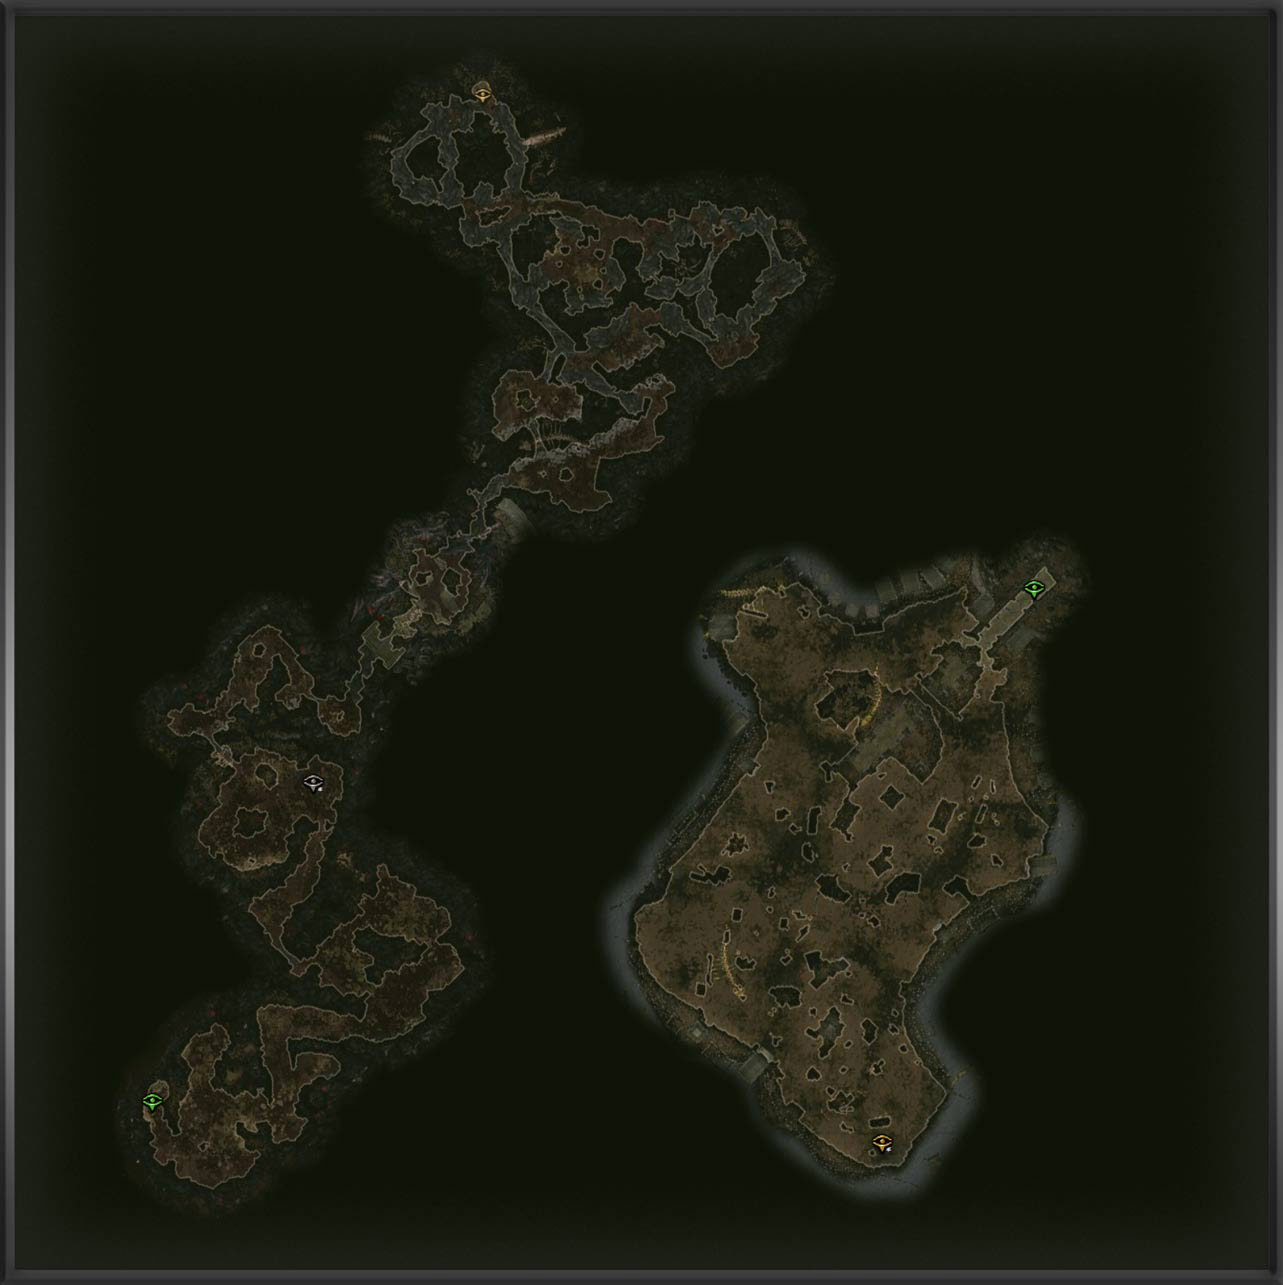
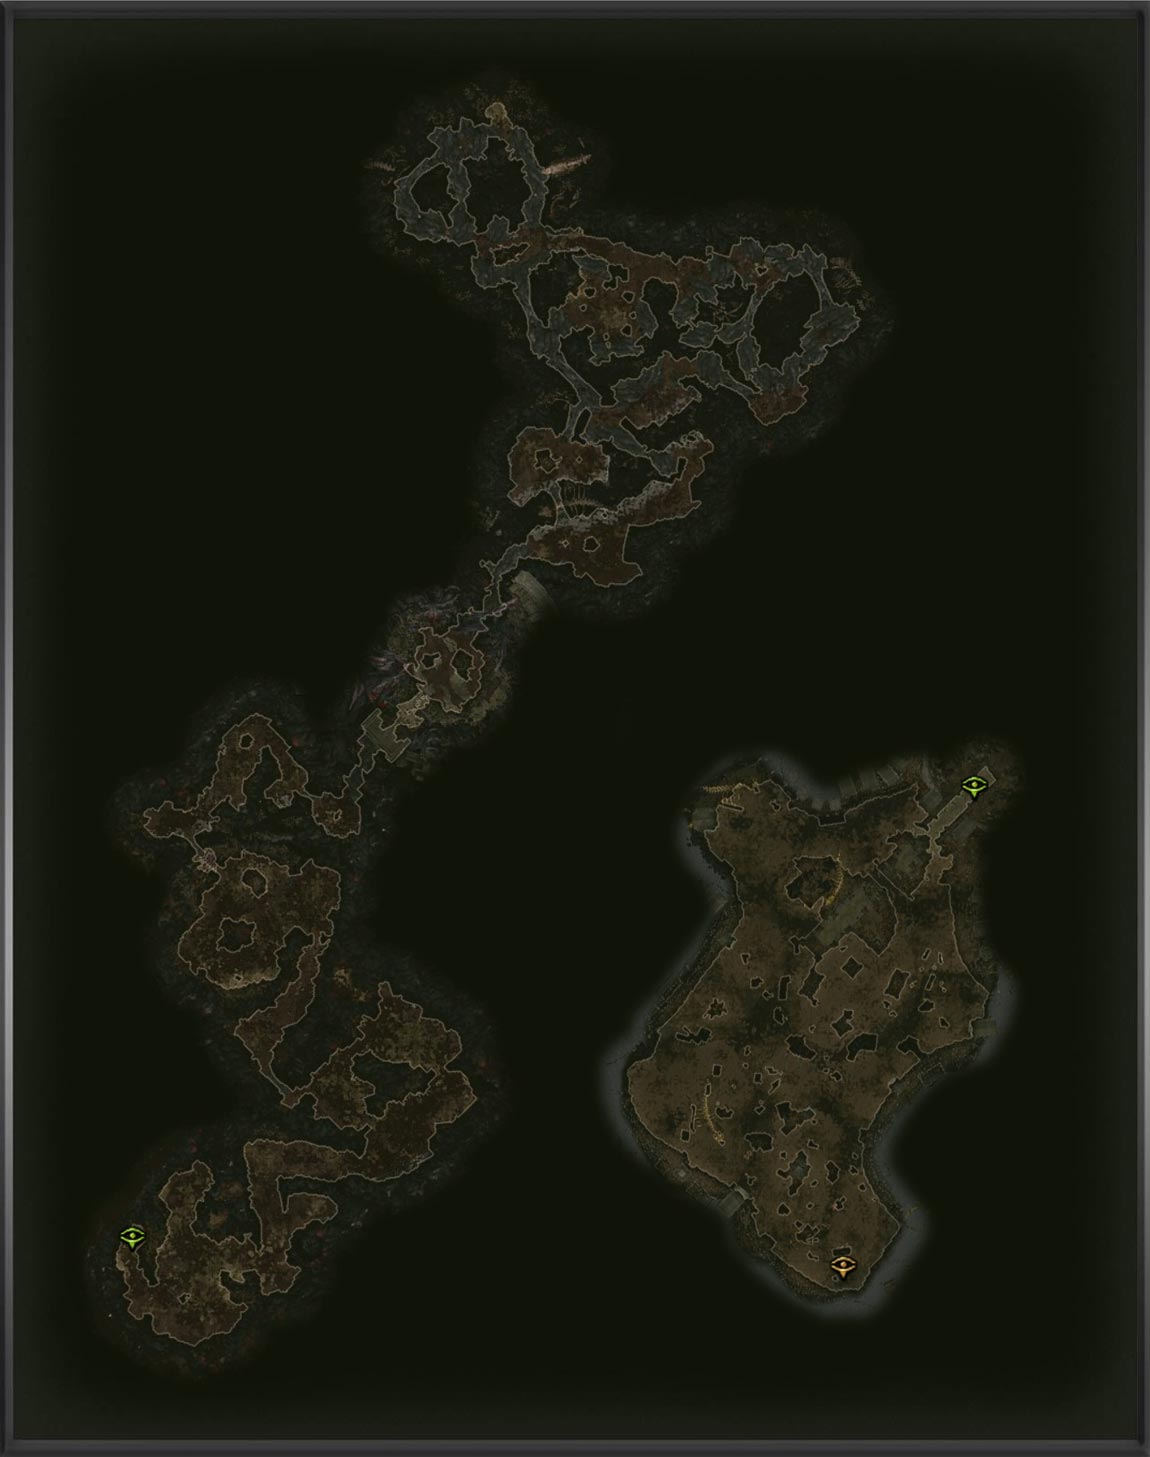
QOL

Changed region(s): [[0.0913, 0.0623, 0.7609, 0.9339], [0.4565, 0.4047, 0.8826, 0.9339]]

diff --git a/js/ui.region.js b/js/ui.region.js
@@ -58,7 +58,7 @@
 { id: 'map_hallowed_hill', tag: 'tagMapHallowedHill', xp: 69.94, yp: 63.94 },
 { id: 'map_east_marsh01', tag: 'tagMapEastMarsh01', xp: 74.61, yp: 66.54 },
 { id: 'map_east_marsh03', tag: 'tagMapEastMarsh03', xp: 78.79, yp: 65.76 },
-{ id: 'GDX1UG_ugdenbog_wendigo01', tag: 'tagGDX1UGUgdenbogWendigo01', xp: 78.57, yp: 29.30, isDungeon: true },
+{ id: 'GDX1UG_ugdenbog_wendigo01', tag: 'tagGDX1UGUgdenbogWendigo01', xp: 79.68, yp: 30.01, isDungeon: true },
 { id: 'GDX2_map_side_areas_01', tag: 'tagGDX2MapSideAreas_01', xp: 72.06, yp: 62.22 },
 { id: 'map_abandoned_waterfront', tag: 'tagMapAbandonedWaterfront', xp: 65.37, yp: 61.08 },
 { id: 'map_burrwitch_estates', tag: 'tagMapBurrwitchEstates', xp: 68.89, yp: 59.5 },
@@ -74,9 +74,9 @@
 { id: 'GDX1_UG_ancient_grove01', tag: 'tagGDX1UGAncientGrove01', xp: 94.87, yp: 51.37, isDungeon: true },
 { id: 'GDX1_UG_ugdenbog_mine01', tag: 'tagGDX1UGUgdenbogMine01', xp: 95.68, yp: 29.69, isDungeon: true },
 { id: 'GDX1_UG_ugdenbog_cave03', tag: 'tagGDX1UGUgdenbogCave03', xp: 92.96, yp: 35.20, isDungeon: true },
-{ id: 'GDX1_UG_ugdenbog_wendigo02', tag: 'tagGDX1UGUgdenbogWendigo02', xp: 76.91, yp: 26.80, isDungeon: true },
-{ id: 'GDX1_UG_ugdenbog_void_rift01', tag: 'tagGDX1UGUgdenbogVoidRift01', xp: 75.44, yp: 24.10, isDungeon: true },
-{ id: 'GDX1_UG_ugdenbog_void_rift03', tag: 'tagGDX1UGUgdenbogVoidRift03', xp: 71.65, yp: 17.4, isDungeon: true },
+{ id: 'GDX1_UG_ugdenbog_wendigo02', tag: 'tagGDX1UGUgdenbogWendigo02', xp: 75.19, yp: 29.52, isDungeon: true },
+{ id: 'GDX1_UG_ugdenbog_void_rift01', tag: 'tagGDX1UGUgdenbogVoidRift01', xp: 77.20, yp: 17.29, isDungeon: true },
+{ id: 'GDX1_UG_ugdenbog_void_rift03', tag: 'tagGDX1UGUgdenbogVoidRift03', xp: 71.65, yp: 16.4, isDungeon: true },
 { id: 'map_kymons', tag: 'tagMapKymons', xp: 57.84, yp: 90.0 },
 { id: 'map_arkovian_foothills', tag: 'tagMapArkovianFoothills', xp: 55.16, yp: 86.34 },
 { id: 'map_crumbling_watch', tag: 'tagMapCrumblingWatch', xp: 57.44, yp: 85.06 },

diff --git a/js/ui.overlay.js b/js/ui.overlay.js
@@ -37,9 +37,9 @@ window.DUNGEON_OVERLAYS = [
 { id: "fort_ikon_armory", map: "cairn", img: "fort-ikon-armory.jpg?1.0", left: 11.0632, top: 12.896, width: 5.3206, height: 5.2126 },
 { id: "tom_of_the_watcher", map: "cairn", img: "tom-of-the-watcher.jpg?1.0", left: 9.8898, top: 4.1283, width: 9.3146, height: 6.6072 },
 { id: "fort_ikon_prison", map: "cairn", img: "fort-ikon-prison.jpg?1.0", left: 5.0335, top: 13.1897, width: 5.8523, height: 5.7953 },
-{ id: "desolate_waste", map: "cairn", img: "desolate-waste.jpg?1.0", left: 68.579, top: 11.3438, width: 14.4848, height: 14.2076 },
-{ id: "den_of_wendigo", map: "cairn", img: "den-of-wendigo.jpg?1.0", left: 74.8726, top: 26.1324, width: 6.8192, height: 6.6843 },
-{ id: "barrow_holm", map: "cairn", img: "barrow-holm.jpg?1.0", left: 94.8385, top: 24.3491, width: 5.8807, height: 5.7605 },
+{ id: "desolate_waste", map: "cairn", img: "desolate-waste.jpg?1.1", left: 68.579, top: 9.6438, width: 13, height: 15.9076 },
+{ id: "den_of_wendigo", map: "cairn", img: "den-of-wendigo.jpg?1.1", left: 74.8726, top: 26.1324, width: 7.192, height: 6.9843 },
+{ id: "barrow_holm", map: "cairn", img: "barrow-holm.jpg?1.1", left: 94.8385, top: 24.3491, width: 6.8807, height: 6.805 },
 { id: "tomb_ugdall", map: "cairn", img: "tomb-ugdall.jpg", left: 91.0352, top: 31.86, width: 2.2575, height: 2.2121 },
 { id: "undergrowth", map: "cairn", img: "undergrowth.jpg", left: 92.4638, top: 34.6784, width: 4.4148, height: 4.3269 },
 { id: "larrias_den", map: "cairn", img: "larrias-den.jpg", left: 81.59, top: 34.8843, width: 2.5938, height: 2.5405 },

diff --git a/js/ui.shrine.js b/js/ui.shrine.js
@@ -40,11 +40,11 @@
     { id: 'shrinetagUGVoidlands01', regionTag: 'tagUGVoidlands01', xp: 31.86, yp: 0.56, difficulty: 'normal' },
     { id: 'shrinetagMapHallowedHill', regionTag: 'tagMapHallowedHill', xp: 71.10, yp: 64.58, difficulty: 'elite' },
     { id: 'shrinetagMapNecropolis', regionTag: 'tagMapNecropolis', xp: 24.31, yp: 7.53, difficulty: 'normal' },
-    { id: 'shrinetagGDX1UGUgdenbogVoidRift01', regionTag: 'tagGDX1UGUgdenbogVoidRift01', xp: 78.79, yp: 21.41, difficulty: 'elite' },
+    { id: 'shrinetagGDX1UGUgdenbogVoidRift01', regionTag: 'tagGDX1UGUgdenbogVoidRift01', xp: 78.32, yp: 21.41, difficulty: 'elite' },
     { id: 'shrinetagMapHiddenPath01', regionTag: 'tagMapHiddenPath01', xp: 67.36, yp: 84.30, difficulty: 'ultimate' },
     { id: 'shrinetagUGSecret02', regionTag: 'tagUGSecret02', xp: 28.57, yp: 21.00, difficulty: 'ultimate' },
     { id: 'shrinetagGDX1MapUgdenbogAncient', regionTag: 'tagGDX1MapUgdenbogAncient', xp: 90.31, yp: 40.50, difficulty: 'ultimate' },
-    { id: 'shrinetagGDX1UGUgdenbogMine01', regionTag: 'tagGDX1UGUgdenbogMine01', xp: 98.86, yp: 27.29, difficulty: 'ultimate' },
+    { id: 'shrinetagGDX1UGUgdenbogMine01', regionTag: 'tagGDX1UGUgdenbogMine01', xp: 99.54, yp: 27.94, difficulty: 'ultimate' },
   ];
 
   window.SHRINE_MARKERS_MALMOUTH = [

diff --git a/index.html b/index.html
@@ -216,7 +216,7 @@
 
     <aside class="sidebar markers-scroll">
       <div id="version">
-        <span>V.5.53</span>
+        <span>V.5.54</span>
       </div>      
       <div class="title-banner">
         <div class="app-logo">
@@ -690,12 +690,12 @@
   <script src="js/ui.lang.js?v=3.70"></script>
   <script src="js/core.js?v=3.11"></script>
   <script src="js/ui.rift.js?v=3.98"></script>
-  <script src="js/ui.region.js?v=4.19"></script>
+  <script src="js/ui.region.js?v=4.20"></script>
 
-  <script src="js/ui.shrine.js?v=1.08"></script>
+  <script src="js/ui.shrine.js?v=1.09"></script>
 
   <script src="js/ui.navmarkers.js?v=1.23"></script>
-  <script src="js/ui.map.base.js?v=1.42"></script>
+  <script src="js/ui.map.base.js?v=1.43"></script>
   <script src="js/ui.map.minimap.js?v=1.13"></script>
 
   <script src="js/ui.markers.js?v=26"></script>
@@ -710,7 +710,7 @@
 
   <script src="libs/pako.min.js"></script>
   <script src="js/ui.tools.js?v=2.99"></script>
-  <script src="js/ui.overlay.js?v=3.30"></script>
+  <script src="js/ui.overlay.js?v=3.31"></script>
   <script src="js/ui.dungeon.links.js?v=1.24"></script>
   <script src="js/ui.filter.js?v=3.03"></script>
   <script src="js/ui.search.js?v=1.22"></script>

diff --git a/js/ui.map.base.js b/js/ui.map.base.js
@@ -60,8 +60,9 @@
     { id:'darius', w: 100, h: 150, img: 'img/qol/darius.png', xp: 58.98, yp: 69.94,  anchor: 'center', isDungeon: true },
     { id:'gargabol', w: 130, h: 190, img: 'img/qol/gargabol.png', xp: 98.27, yp: 58.4,  anchor: 'center', isDungeon: true },
     { id:'manticore', w: 180, h: 120, img: 'img/qol/manticore.png', xp: 92.42, yp: 55,  anchor: 'center', isDungeon: true },
-
-
+    { id:'ekketzul', w: 190, h: 245, img: 'img/qol/ekketzul.png', xp: 73.66, yp: 19.33,  anchor: 'center', isDungeon: true },
+    { id:'naxen', w: 130, h: 90, img: 'img/qol/naxen.png', xp: 99.84, yp: 26.93,  anchor: 'center', isDungeon: true },
+    { id:'namadea', w: 140, h: 130, img: 'img/qol/namadea.png', xp: 79.10, yp: 28.1,  anchor: 'center', isDungeon: true },
 
 
   ];

diff --git a/js/ui.navmarkers.js b/js/ui.navmarkers.js
@@ -143,8 +143,8 @@ window.NAV_MARKERS_CAIRN = [
       },
       // Téléport Void's Eige
       {
-        xp: 74.04, 
-        yp: 12.40,
+        xp: 74.18, 
+        yp: 10.80,
         tag: 'tagGoTo + tagGDX1MapMalmouthEntry',
         icon: 'img/icon-link.png',
         targetProfile: 'Malmouth',
@@ -158,7 +158,7 @@ window.NAV_MARKERS_CAIRN = [
        // Téléport Void's Eige Inside ------------------------------------------
       {
         xp: 72.13, 
-        yp: 20.03,
+        yp: 19.43,
         tag: 'tagGoTo + tagGDX1MapUgdenbogAltar',
         icon: 'img/icon-link.png',
         targetXp: 85.14,
